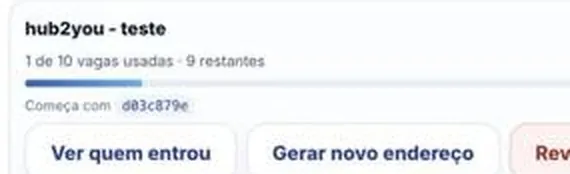
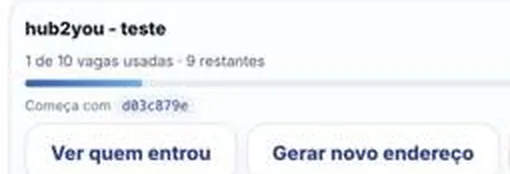
fix: peca esticada e pin quebrado na conversao para o Next
Tres defeitos que a conversao introduziu, os dois primeiros meus:

1. As pecas flutuantes ganharam width/height no <img> ao virar JSX. Sem
   height auto o navegador usa o valor literal do atributo, e a peca da secao
   da loja renderizava 279x445 no lugar de 272x111.

2. Ao escopar o CSS em .lp, o overflow-x: clip foi junto para o elemento da
   pagina. Um ancestral com recorte quebra o position: fixed, e o pin do
   ScrollTrigger deixou de prender o hero. So a raiz governa isso.

3. A peca de turmas ainda mostrava a borda vermelha do botao Revogar. A pagina
   reserva laranja para o botao e para o quarto no do trilho.

Refs #343

diff --git a/app/lp.css b/app/lp.css
@@ -20,7 +20,6 @@
   --z-topo: 40; --z-palco: 30; --z-hud: 20; --z-conteudo: 10;
 }
 .lp, .lp * { box-sizing: border-box; }
-.lp { overflow-x: clip; }
 .lp { background: var(--navy); color: #fff; font-family: var(--font-inter), ui-sans-serif, system-ui, -apple-system, sans-serif; line-height: 1.6; -webkit-font-smoothing: antialiased; }
 .lp p { margin: 0; }
 .lp a { color: inherit; text-decoration: none; }
@@ -82,7 +81,7 @@
 .fone .contorno { position: absolute; inset: 0; z-index: 4; border-radius: 38px; box-shadow: inset 0 0 0 1px rgba(255,255,255,.16), inset 0 0 0 10px rgba(6,12,22,.0); pointer-events: none; transform: translateZ(3px); }
 .fone .sombra-chao { position: absolute; left: 6%; right: 6%; bottom: -34px; height: 60px; background: rgba(0,6,20,.55); filter: blur(28px); opacity: .32; transform: translateZ(-120px); }
 .peca { position: absolute; z-index: 5; left: -58%; width: 88%; transform: translateZ(90px); filter: drop-shadow(0 30px 60px rgba(0,8,24,.75)); }
-.peca img { display: block; width: 100%; border-radius: 12px; }
+.peca img { display: block; width: 100%; height: auto; border-radius: 12px; }
 
 /* 1. ABERTURA */
 .abertura { position: relative; background: var(--navy); }

diff --git a/app/page.tsx b/app/page.tsx
@@ -156,7 +156,7 @@ export default async function Home({ searchParams }: { searchParams: Promise<{ e
                   <span className="sombra-chao" />
                   <span className="peca" id="peca-painel" style={{ top: "52%" }}>
                     {/* eslint-disable-next-line @next/next/no-img-element */}
-                    <img src="/lp/peca-turma.webp" alt="" width={570} height={174} loading="lazy" />
+                    <img src="/lp/peca-turma.webp" alt="" width={510} height={174} loading="lazy" />
                   </span>
                 </div>
               </div>
